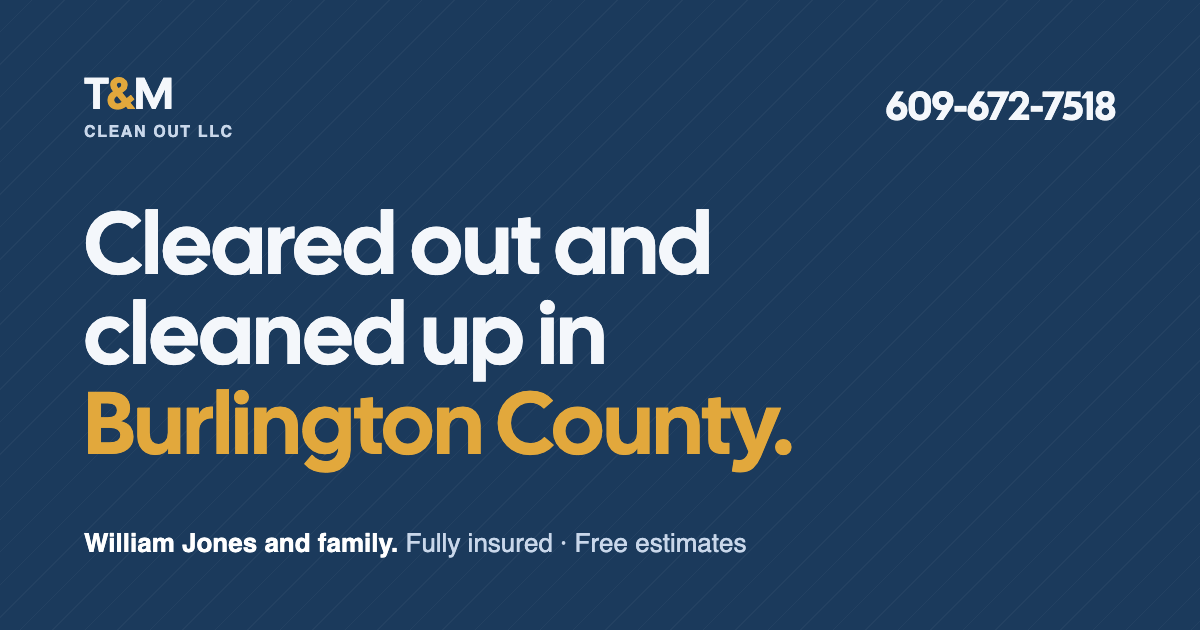
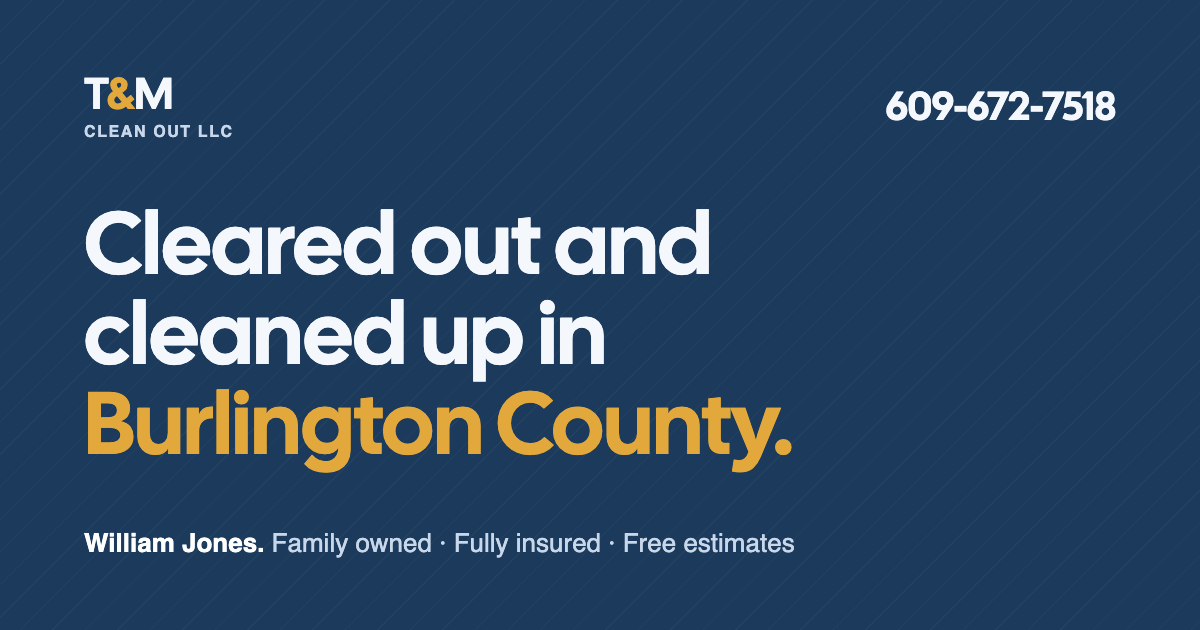
Finish review: no invented 'family on the job' claims, truthful Facebook label, sms fallback link, tappable second number, H1 keeps 'cleaned up' together, less repeated copy, selected-chip hover outline
Claude-Session: https://claude.ai/code/session_01RSDmejPowqEBrtEpZb1Wj2

Changed region(s): [[0.2158, 0.8444, 0.6783, 0.8746]]

diff --git a/index.html b/index.html
@@ -4,11 +4,11 @@
 <meta charset="utf-8">
 <meta name="viewport" content="width=device-width, initial-scale=1, viewport-fit=cover">
 <title>T&amp;M Clean Out LLC · Clean outs, cleaning and property care · Burlington County, NJ</title>
-<meta name="description" content="William Jones and family: clean outs, deep cleaning, power washing, painting, driveway sealing and winterizing around Burlington County, NJ. Family owned, fully insured, free estimates. 609-672-7518.">
+<meta name="description" content="William Jones: clean outs, deep cleaning, power washing, painting, driveway sealing and winterizing around Burlington County, NJ. Family owned, fully insured, free estimates. 609-672-7518.">
 <meta name="theme-color" content="#f4f6fb">
 <meta property="og:type" content="website">
 <meta property="og:title" content="T&amp;M Clean Out LLC · Cleared out and cleaned up in Burlington County">
-<meta property="og:description" content="Clean outs, deep cleaning, power washing, painting and winterizing from William Jones and family. Fully insured. Free estimates: 609-672-7518.">
+<meta property="og:description" content="Clean outs, deep cleaning, power washing, painting and winterizing from William Jones. Family owned, fully insured. Free estimates: 609-672-7518.">
 <meta property="og:url" content="https://10elizabethbell.github.io/tmCleanOut/">
 <meta property="og:image" content="https://10elizabethbell.github.io/tmCleanOut/og.png">
 <meta property="og:image:width" content="1200">
@@ -101,6 +101,7 @@ section{padding:64px 0}
 .hero-copy{position:relative;z-index:1;display:grid;gap:20px;justify-items:start;padding-top:56px;padding-bottom:72px}
 .hero h1{color:#fff;font-size:clamp(42px,min(11.4vw,13svh),80px);line-height:1.02;max-width:13ch}
 /* H1 bounce-in (after lpmr.co.uk): each letter slides in from 50px right with a slight overshoot, 20ms apart */
+.hero h1 .nb{white-space:nowrap}
 .hero h1 .w{display:inline-block;white-space:nowrap}
 .hero h1 .c{display:inline-block;opacity:0;transform:translateX(50px);animation:letter-in 1s cubic-bezier(.34,1.56,.64,1) forwards;animation-delay:calc(var(--i) * 20ms)}
 @keyframes letter-in{to{opacity:1;transform:none}}
@@ -190,6 +191,7 @@ footer .wrap{display:grid;gap:14px}
 .nw{white-space:nowrap}
 footer nav{display:flex;flex-wrap:wrap;gap:6px 22px}
 footer a{display:inline-flex;align-items:center;min-height:44px;color:var(--on-dark);text-decoration:none}
+footer a.alt{display:inline-block;min-height:0;padding:11px 0;margin:-11px 0;color:var(--on-dark-soft);text-decoration:underline;text-underline-offset:3px;text-decoration-color:rgba(255,255,255,.4)}
 
 /* ---------- Floating text circle (one circle, never a bottom bar) ---------- */
 .float{display:none;position:fixed;z-index:15;right:calc(16px + env(safe-area-inset-right));bottom:calc(16px + env(safe-area-inset-bottom));width:60px;height:60px;border-radius:50%;place-items:center;background:var(--accent);color:var(--ink);box-shadow:0 10px 28px rgba(8,20,36,.3);transform:translateY(120px);transition:transform .35s cubic-bezier(.2,.8,.2,1)}
@@ -235,6 +237,7 @@ footer a{display:inline-flex;align-items:center;min-height:44px;color:var(--on-d
 .ask-any a:hover{color:var(--accent)}
 input[type=text]:hover,textarea:hover{border-color:var(--focus)}
 .chips label:hover{border-color:var(--focus)}
+.chips input:checked+label:hover{outline:2px solid var(--focus);outline-offset:2px}
 form .btn:hover{outline:2px solid var(--focus);outline-offset:2px}
 .sent p a:hover{color:var(--accent-ink)}
 .bigtel:hover{color:var(--accent)}
@@ -273,8 +276,8 @@ FINISH: unreviewed and undocumented is unfinished; this build ends with the fini
 <section class="hero" id="hero" aria-labelledby="h1">
   <div class="wrap hero-copy">
     <p class="eyebrow">Clean outs &amp; property care</p>
-    <h1 id="h1">Cleared out and cleaned up in <span class="accent">Burlington County.</span></h1>
-    <p class="promise">I'm <b>William Jones.</b> My family and I treat your house like it's ours.</p>
+    <h1 id="h1">Cleared out and <span class="nb">cleaned up</span> in <span class="accent">Burlington County.</span></h1>
+    <p class="promise">I'm <b>William Jones.</b> I treat your house like it's my own.</p>
     <div class="actions">
       <a class="btn btn-primary" href="#ask">Get a free estimate</a>
       <a class="btn btn-ghost sms" data-job="" href="sms:+16096727518"><svg aria-hidden="true"><use href="#i-chat"/></svg>Text William</a>
@@ -285,8 +288,8 @@ FINISH: unreviewed and undocumented is unfinished; this build ends with the fini
 <section class="on-paper" aria-labelledby="h-trust">
   <div class="wrap split">
     <div class="rise">
-      <h2 id="h-trust">When you call, you get me.</h2>
-      <p class="lede">It's my name on the flyer and my family on the job, from the garage to the driveway seal.</p>
+      <h2 id="h-trust">Call or text, you get me.</h2>
+      <p class="lede">It's my name on every job, from the garage clean out to the driveway seal.</p>
     </div>
     <ul class="claims">
       <li class="rise"><svg viewBox="0 0 40 40" fill="none" stroke="currentColor" stroke-width="2.4" stroke-linecap="round" stroke-linejoin="round" aria-hidden="true"><path d="M20 4l13 5v9c0 8.5-5.6 15.3-13 18-7.4-2.7-13-9.5-13-18V9z"/><path d="M14 20l4.5 4.5L27 16"/></svg>Fully insured</li>
@@ -294,7 +297,7 @@ FINISH: unreviewed and undocumented is unfinished; this build ends with the fini
       <li class="rise"><svg viewBox="0 0 40 40" fill="none" stroke="currentColor" stroke-width="2.4" stroke-linecap="round" stroke-linejoin="round" aria-hidden="true"><rect x="8" y="6" width="24" height="30" rx="3"/><path d="M15 6V4h10v2M14 16h12M14 23h12M14 30h7"/></svg>Free estimates</li>
     </ul>
     <a class="fb rise" href="https://www.facebook.com/groups/1772980119690817/permalink/4636261316696002/" rel="noopener">
-      <span class="lbl"><svg viewBox="0 0 24 24" fill="currentColor" aria-hidden="true"><path d="M24 12a12 12 0 1 0-13.9 11.9v-8.4h-3V12h3V9.4c0-3 1.8-4.7 4.5-4.7 1.3 0 2.7.2 2.7.2v2.9h-1.5c-1.5 0-2 .9-2 1.9V12h3.4l-.5 3.5h-2.9v8.4A12 12 0 0 0 24 12z"/></svg>See me on Facebook</span>
+      <span class="lbl"><svg viewBox="0 0 24 24" fill="currentColor" aria-hidden="true"><path d="M24 12a12 12 0 1 0-13.9 11.9v-8.4h-3V12h3V9.4c0-3 1.8-4.7 4.5-4.7 1.3 0 2.7.2 2.7.2v2.9h-1.5c-1.5 0-2 .9-2 1.9V12h3.4l-.5 3.5h-2.9v8.4A12 12 0 0 0 24 12z"/></svg>See my post on Facebook</span>
       <span class="arrow" aria-hidden="true"><svg><use href="#i-arrow"/></svg></span>
     </a>
   </div>
@@ -309,7 +312,7 @@ FINISH: unreviewed and undocumented is unfinished; this build ends with the fini
     </div>
     <div class="groups">
       <div class="group rise">
-        <h3><svg viewBox="0 0 32 32" fill="none" stroke="currentColor" stroke-width="2.4" stroke-linecap="round" stroke-linejoin="round" aria-hidden="true"><path d="M5 12h22v14H5z"/><path d="M5 12l3-6h16l3 6M12 18h8"/></svg>Clean outs</h3>
+        <h3><svg viewBox="0 0 32 32" fill="none" stroke="currentColor" stroke-width="2.4" stroke-linecap="round" stroke-linejoin="round" aria-hidden="true"><path d="M5 12h22v14H5z"/><path d="M5 12l3-6h16l3 6M12 18h8"/></svg>Clean outs &amp; empty homes</h3>
         <ul class="rows">
           <li><a class="row sms" data-job="a foreclosed home clean out" href="sms:+16096727518">Foreclosed homes<span class="arrow" aria-hidden="true"><svg><use href="#i-arrow"/></svg></span></a></li>
           <li><a class="row sms" data-job="a garage clean out" href="sms:+16096727518">Garages<span class="arrow" aria-hidden="true"><svg><use href="#i-arrow"/></svg></span></a></li>
@@ -348,9 +351,8 @@ FINISH: unreviewed and undocumented is unfinished; this build ends with the fini
 <section class="on-light vacant" id="vacant" aria-labelledby="h-vacant">
   <div class="wrap">
     <div class="head rise">
-      <p class="eyebrow">Empty homes</p>
-      <h2 id="h-vacant">Empty house? I'll look after it.</h2>
-      <p class="lede">Foreclosed or just sitting empty, I'll clean it out, re-key the locks and winterize it before the first freeze, and look after it like it's my own.</p>
+      <h2 id="h-vacant">Empty house? Cleared, re-keyed, winterized.</h2>
+      <p class="lede">Foreclosed or just sitting empty, I'll clean it out, re-key the locks and winterize it before the first freeze.</p>
     </div>
     <a class="btn btn-primary sms rise" id="vacantBtn" data-job="an empty house: clean out, re-key and winterizing" href="sms:+16096727518"><svg aria-hidden="true"><use href="#i-chat"/></svg>Text me about a house</a>
   </div>
@@ -362,9 +364,9 @@ FINISH: unreviewed and undocumented is unfinished; this build ends with the fini
       <p class="eyebrow">Free estimate</p>
       <h2 id="h-ask">Tell me what needs doing</h2>
       <ol class="steps" aria-label="How it works">
-        <li><div><b>Tell me what you need.</b><span>A photo of the job and your town help.</span></div></li>
+        <li><div><b>Tell me what you need.</b><span>Send a photo and your town if you can.</span></div></li>
         <li><div><b>Get a free estimate.</b><span>You know the price before any work starts.</span></div></li>
-        <li><div><b>My family gets it done.</b><span>And we leave it the way we'd want our own place left.</span></div></li>
+        <li><div><b>I get it done.</b><span>Fully insured, start to finish.</span></div></li>
       </ol>
     </div>
     <form id="jobForm" class="rise" novalidate>
@@ -393,7 +395,7 @@ FINISH: unreviewed and undocumented is unfinished; this build ends with the fini
       <button class="btn btn-primary" type="submit"><svg aria-hidden="true"><use href="#i-chat"/></svg>Text this to William</button>
       <p class="after">Opens your messages with this written out. You can add a photo there.</p>
       <div class="sent" id="sent" role="status" hidden>
-        <p>Didn't open your messages? Tap the button again, or copy your message and text it to <a href="tel:+16096727518">609-672-7518</a>.</p>
+        <p>Didn't open your messages? Tap the button again, or copy your message and text it to <a class="sms" data-job="" href="sms:+16096727518">609-672-7518</a>.</p>
         <button type="button" class="btn btn-line" id="copyMsg">Copy message</button>
         <textarea id="msgText" readonly aria-label="Your message to William" hidden></textarea>
       </div>
@@ -405,7 +407,7 @@ FINISH: unreviewed and undocumented is unfinished; this build ends with the fini
   <div class="wrap">
     <div class="rise">
       <h2 id="h-close">Your house, <span class="accent">looked after.</span></h2>
-      <p class="who">T&amp;M Clean Out LLC: William Jones and family, fully insured.</p>
+      <p class="who">T&amp;M Clean Out LLC: William Jones. Family owned and fully insured.</p>
       <p class="deal"><b>I give discounts to</b>Military · first responders · teachers · seniors · new clients</p>
       <p class="area">I work around Burlington County, NJ. Not sure I cover your town? Call and ask.</p>
     </div>
@@ -416,7 +418,7 @@ FINISH: unreviewed and undocumented is unfinished; this build ends with the fini
 
 <footer>
   <div class="wrap">
-    <span>T&amp;M Clean Out LLC · William Jones · Burlington County, NJ · <span class="nw">609-672-7518</span> · <span class="nw">609-331-3190</span></span>
+    <span>T&amp;M Clean Out LLC · William Jones · Burlington County, NJ · <span class="nw">609-672-7518</span> · <a class="nw alt" href="tel:+16093313190">609-331-3190</a></span>
     <nav aria-label="Elsewhere">
       <a href="mailto:tmcleanup@gmail.com">tmcleanup@gmail.com</a>
       <a href="https://www.facebook.com/groups/1772980119690817/permalink/4636261316696002/" rel="noopener">Facebook</a>
